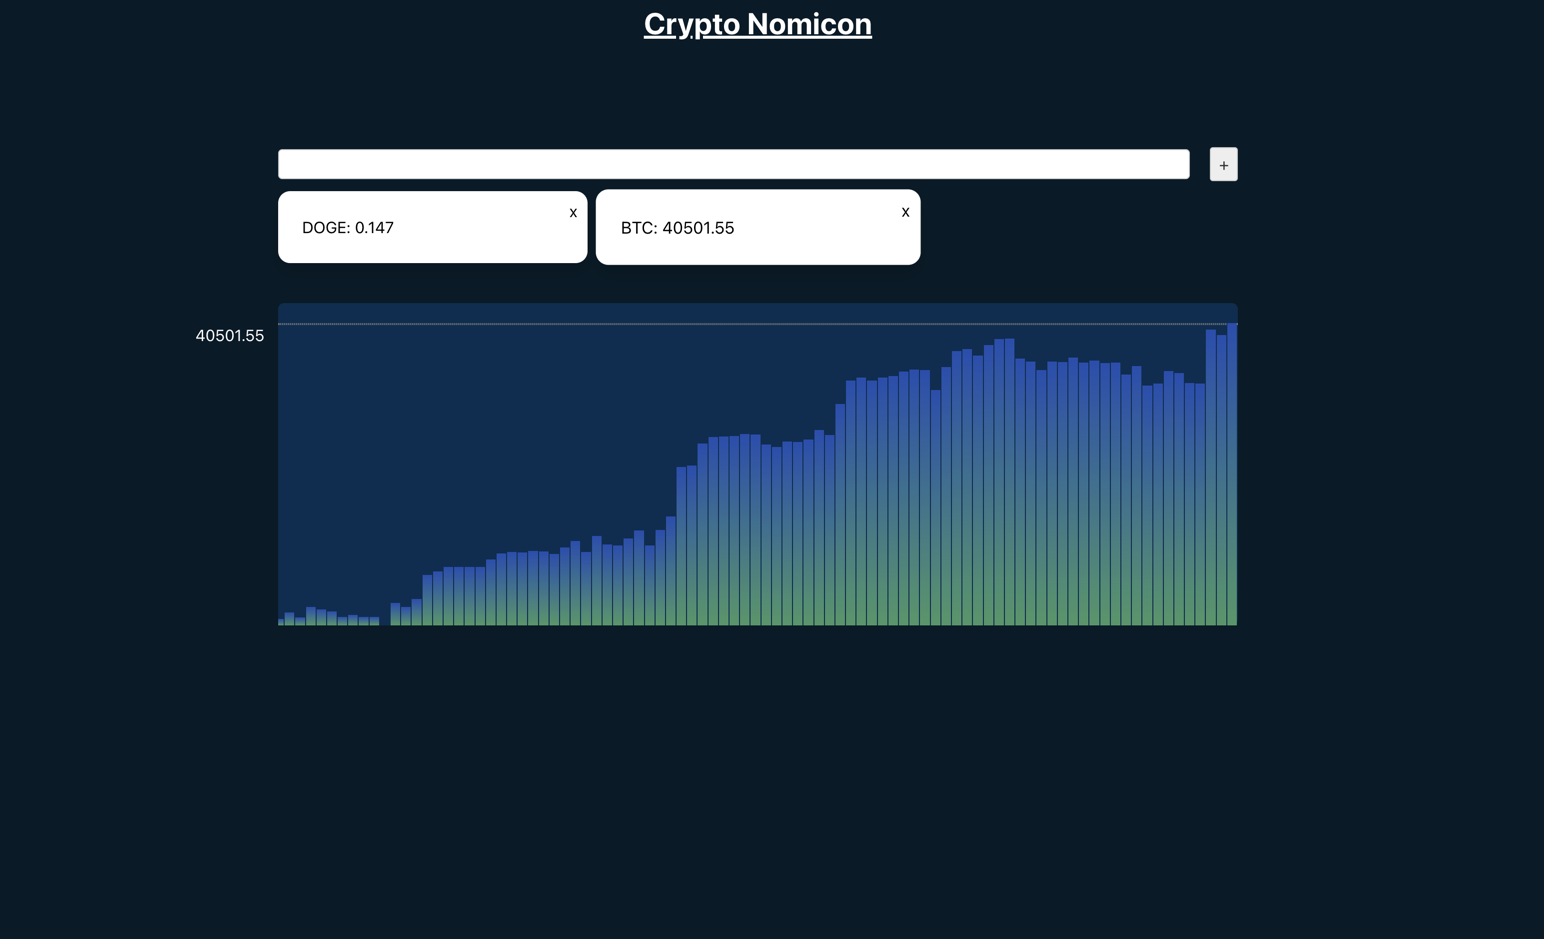
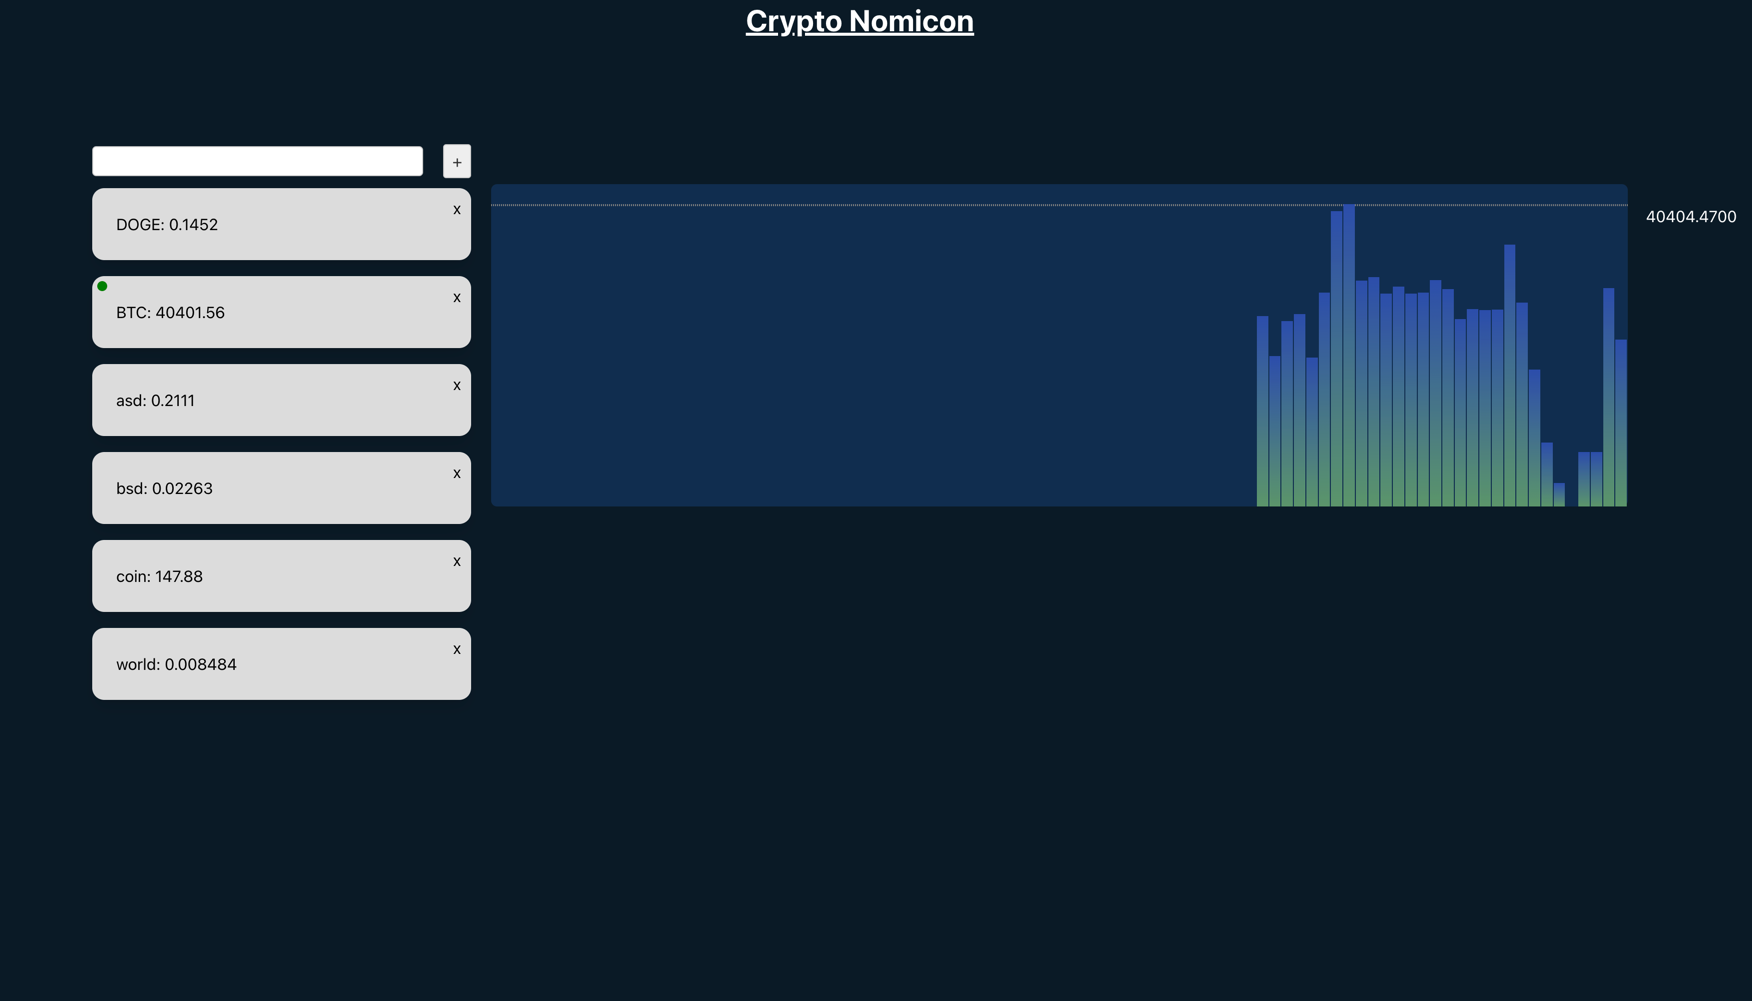
add layout

diff --git a/src/view/list.tsx b/src/view/list.tsx
@@ -8,7 +8,7 @@ import Currency from '../components/currency/currency';
 import UserPreference from '../utils/userPreference';
 import PriceGraf from '../components/price-graf/price-graf';
 import currency from '../components/currency/currency';
-import {takeRight} from '../utils/collections';
+import {takeRight, last} from '../utils/collections';
 import noop from '../utils/noop';
 
 const api = Api.getInstance();
@@ -20,9 +20,6 @@ function getSavedCurrency() {
 	return UserPreference.get<Array<string>>(SAVE_KEY, []);
 }
 
-export function last<T = unknown>(array: Array<T>) {
-	return array[array.length - 1];
-}
 
 const List: React.FC = () => {
 	const [search, setSearch] = useState<string>(() => Object.keys(getSavedCurrency()).length ? '' : DEFAULT_CURRENCY);
@@ -31,7 +28,6 @@ const List: React.FC = () => {
 	const [isConnecting, setConnectStatus] = useState<boolean>(false);
 	const [selectedCurrency, setSelected] = useState('');
 	const [prices, setPrices] = useState<Array<number>>([]);
-
 
 	const updateCurrency = useCallback((data: Record<string, unknown>) => {
 		setCurrency((prev) => {
@@ -61,6 +57,14 @@ const List: React.FC = () => {
 	}, [list]);
 
 	useEffect(() => {
+		list.forEach((currency) => {
+			api.getPrice(currency).then((data) => {
+				updateCurrency({currency, newPrice: data});
+			});
+		});
+	}, []);
+
+	useEffect(() => {
 		if (!isConnecting) return noop;
 		function subscribe() {
 			list.forEach(key => {
@@ -82,20 +86,29 @@ const List: React.FC = () => {
 
 	const addItem = async (e?: FormEvent<HTMLFormElement>) => {
 		e && e.preventDefault();
-		const validateCurrency = (currency: string, list: Array<string>) => {
+		const validateCurrency = async (currency: string, list: Array<string>) => {
 			const isDuplicate = list.includes(currency);
 			const isEmpty = currency.length === 0;
-			return [isDuplicate, isEmpty].some(_ => _);
-		};
-		if (validateCurrency(search, list)) return;
-		api.checkExist(search).then((exist) => {
-			if (exist) {
-				setList( (prev) => ([...prev, search]));
-				setSearch('');
-			}else{
-				alert('Currency not found');
+			let isNotExist = false;
+			await api.checkExist(currency).then((exist) => {
+				isNotExist = !exist;
+			});
+			if (isDuplicate) {
+				alert('This currency already exist');
 			}
-		});
+			if (isEmpty) {
+				alert('Please enter currency');
+			}
+			if (isNotExist) {
+				alert('This currency does not exist');
+			}
+			return [isDuplicate, isEmpty, isNotExist].some(_ => _);
+		};
+		if (await validateCurrency(search, list)) return;
+		setList( (prev) => ([...prev, search]));
+		const USD = await api.getPrice(search);
+		updateCurrency({currency: search, newPrice: USD});
+		setSearch('');
 	};
 
 	const selectCurrency = (currency: string) => {
@@ -112,18 +125,25 @@ const List: React.FC = () => {
 	};
 
 	return (
-		<div className="list">
+		<div className="list main">
 			<Loader isLoading={!isConnecting}/>
-			<form onSubmit={addItem} className={'Search'}>
-				<Input className={'ListInput'} value={search} onChange={setSearch}/>
-				<Button onClick={addItem}>+</Button>
-			</form>
-			<div className="list-wrapper grid gap-4 grid-cols-3">
-				{Object.entries(currency).map((value) => {
-					return <Currency onClose={removeItem} onClick={selectCurrency} key={value[0]} currency={value[0]} amount={last(value[1])}/>;
-				})}
-			</div>
+			<div>
+				<form onSubmit={addItem} className={'Search'}>
+					<Input className={'ListInput'} value={search} onChange={setSearch}/>
+					<Button onClick={addItem}>+</Button>
+				</form>
+				<div className="list-wrapper">
+					{Object.entries(currency).map((value) => {
+						return <Currency onClose={removeItem}
+											isSelected={selectedCurrency === value[0]}
+											onClick={selectCurrency}
+											key={value[0]}
+											currency={value[0]}
+											amount={last(value[1])}/>;
+					})}
+				</div>
 
+			</div>
 
 			<div className="graf">
 				<PriceGraf prices={prices} currency={DEFAULT_CURRENCY}/>

diff --git a/src/components/currency/currency.tsx b/src/components/currency/currency.tsx
@@ -1,23 +1,25 @@
 import React, {useEffect} from 'react';
 import noop from '../../utils/noop';
+import './currency.css';
 
 const Currency: React.FC<{
   currency: string;
   amount?: number;
   className?: string;
+  isSelected?: boolean;
   onClose?: (value: string) => void;
   onClick?: (value: string) => void;
-}> = ({ currency, amount, className = '', onClose= noop, onClick = noop }) => {
+}> = ({ currency, amount, className = '', onClose= noop, onClick = noop, isSelected }) => {
   const [classUpdate, setClassUpdate] = React.useState('');
 
-  useEffect(() => {
-    setTimeout(() => {
-      setClassUpdate('');
-    }, 1000);
-    setClassUpdate(' scale-105');
-  }, [amount]);
-  const classNames = className + classUpdate;
-
+  // useEffect(() => {
+  //   setTimeout(() => {
+  //     setClassUpdate('');
+  //   }, 1000);
+  //   setClassUpdate(' scale-105');
+  // }, [amount]);
+  const isSelectedClass = isSelected ? ' selected' : '';
+  const classNames = className + classUpdate + isSelectedClass;
 
   const handleClose = (event:  React.MouseEvent<HTMLSpanElement, MouseEvent>) => {
     event.stopPropagation();
@@ -30,7 +32,7 @@ const Currency: React.FC<{
   };
 
   return (
-    <div onClick={handleClick} className={classNames + ' relative transition-all p-6 bg-white rounded-xl shadow-lg flex items-center space-x-4'}>
+    <div onClick={handleClick} className={classNames + ' relative item transition-all p-6  rounded-xl shadow-lg flex items-center space-x-4 mb-4'}>
       {currency}: {amount}
 
       <span onClick={handleClose}  className="cursor-pointer absolute top-2 right-2.5">x</span>

diff --git a/src/components/price-graf/price-graf.tsx b/src/components/price-graf/price-graf.tsx
@@ -21,30 +21,28 @@ const PriceGraf: React.FC<Props> = ({prices= []}) => {
 	const limitedPrice = takeRight(prices, MAX_ITEM);
 	const pricesSizes =	limitedPrice.map(getSize);
 
-  return (
-	<div className="price-grafic">
-		{isFinite(maxPrice) && (
-			<div>
-				<div className="price-grafic__max">
-					{ maxPrice.toFixed(4)}
+	return (
+		<div className="price-grafic">
+			{isFinite(maxPrice) && (
+				<div>
+					<div className="price-grafic__max">
+						{ maxPrice.toFixed(4)}
+					</div>
+					<div className="price-grafic__line"></div>
 				</div>
-				<div className="price-grafic__line"></div>
-			</div>
-		)}
+			)}
 
-		<ul>
-			{pricesSizes.map((item, index) => (
-				<li className="relative" key={item + index} style={{
-					height: `${item}%`,
-				}}>
-					<span className="hover-tooltip bg-white opacity-0 z-10 absolute top-0 left-1/2 transition-all">
-						{limitedPrice[index]}
-					</span>
-				</li>
-			))}
-		</ul>
-	</div>
-  );
+			<ul>
+				{pricesSizes.map((item, index) => (
+					<li className="relative" key={item + index} style={{height: `${item}%`}}>
+						<span className="hover-tooltip bg-white opacity-0 z-10 absolute top-0 left-1/2 transition-all">
+							{limitedPrice[index]}
+						</span>
+					</li>
+				))}
+			</ul>
+		</div>
+	);
 };
 
 export default PriceGraf;

diff --git a/src/components/currency/currency.css b/src/components/currency/currency.css
@@ -1,0 +1,48 @@
+.selected {
+  /*box-shadow: 10px 10px 5px grey;*/
+}
+
+.item {
+  background-color: #dcdcdc;
+}
+
+.selected:after {
+  position: absolute;
+  width: 10px;
+  height: 10px;
+  content: '';
+  background: green;
+  border-radius: 50%;
+  top: 5px;
+  left: 5px;
+  animation: blink-animation 2s steps(5, start) infinite;
+}
+
+@keyframes blink-animation {
+  to {
+    visibility: hidden;
+  }
+}
+@-webkit-keyframes blink-animation {
+  to {
+    visibility: hidden;
+  }
+}
+
+@keyframes blink {
+  0% {
+    opacity: 1;
+  }
+  40% {
+    opacity: 1;
+  }
+  50% {
+    opacity: 0;
+  }
+  60% {
+    opacity: 1;
+  }
+  100% {
+    opacity: 1;
+  }
+}

diff --git a/src/utils/collections.ts b/src/utils/collections.ts
@@ -1,9 +1,13 @@
 export function isEmpty(collection: Array<unknown>) {
 	return collection.length === 0;
 }
-export function takeRight(array: Array<number>, limit: number) {
+export function takeRight<T>(array: Array<T>, limit: number) {
 	return array.slice(-limit);
 }
-export function take(array: Array<number>, limit: number) {
+export function take<T>(array: Array<T>, limit: number) {
 	return array.slice(0, limit);
+}
+
+export function last<T = unknown>(array: Array<T>) {
+	return array[array.length - 1];
 }

diff --git a/src/api/api.ts b/src/api/api.ts
@@ -83,6 +83,13 @@ class Api {
         });
     }
 
+	async getPrice(ticker: string) {
+		return await fetch(`https://min-api.cryptocompare.com/data/price?fsym=${ticker}&tsyms=USD`)
+			.then(res => res.json())
+			.then(res => res.USD);
+	}
+
+	//TODO change
     async checkExist(ticker: string) {
         return await fetch(`https://min-api.cryptocompare.com/data/price?fsym=${ticker}&tsyms=USD`)
             .then(res => res.json())

diff --git a/src/App.tsx b/src/App.tsx
@@ -11,7 +11,7 @@ function App() {
           </div>
       </header>
       <main>
-          <div className="container">
+          <div className="md:container md:mx-auto">
               <List/>
           </div>
       </main>

diff --git a/src/components/price-graf/price-graf.css b/src/components/price-graf/price-graf.css
@@ -43,7 +43,7 @@
 .price-grafic__max {
     position: absolute;
     top: 20px;
-    left: 0;
-    transform: translateX(-120%);
+    right: 0;
+    transform: translateX(120%);
     color: white;
 }

diff --git a/src/view/list.css b/src/view/list.css
@@ -14,3 +14,10 @@
 .list-wrapper > div {
 
 }
+
+
+.main {
+    display: grid;
+    grid-template-columns: 1fr 3fr;
+    column-gap: 20px;
+}
